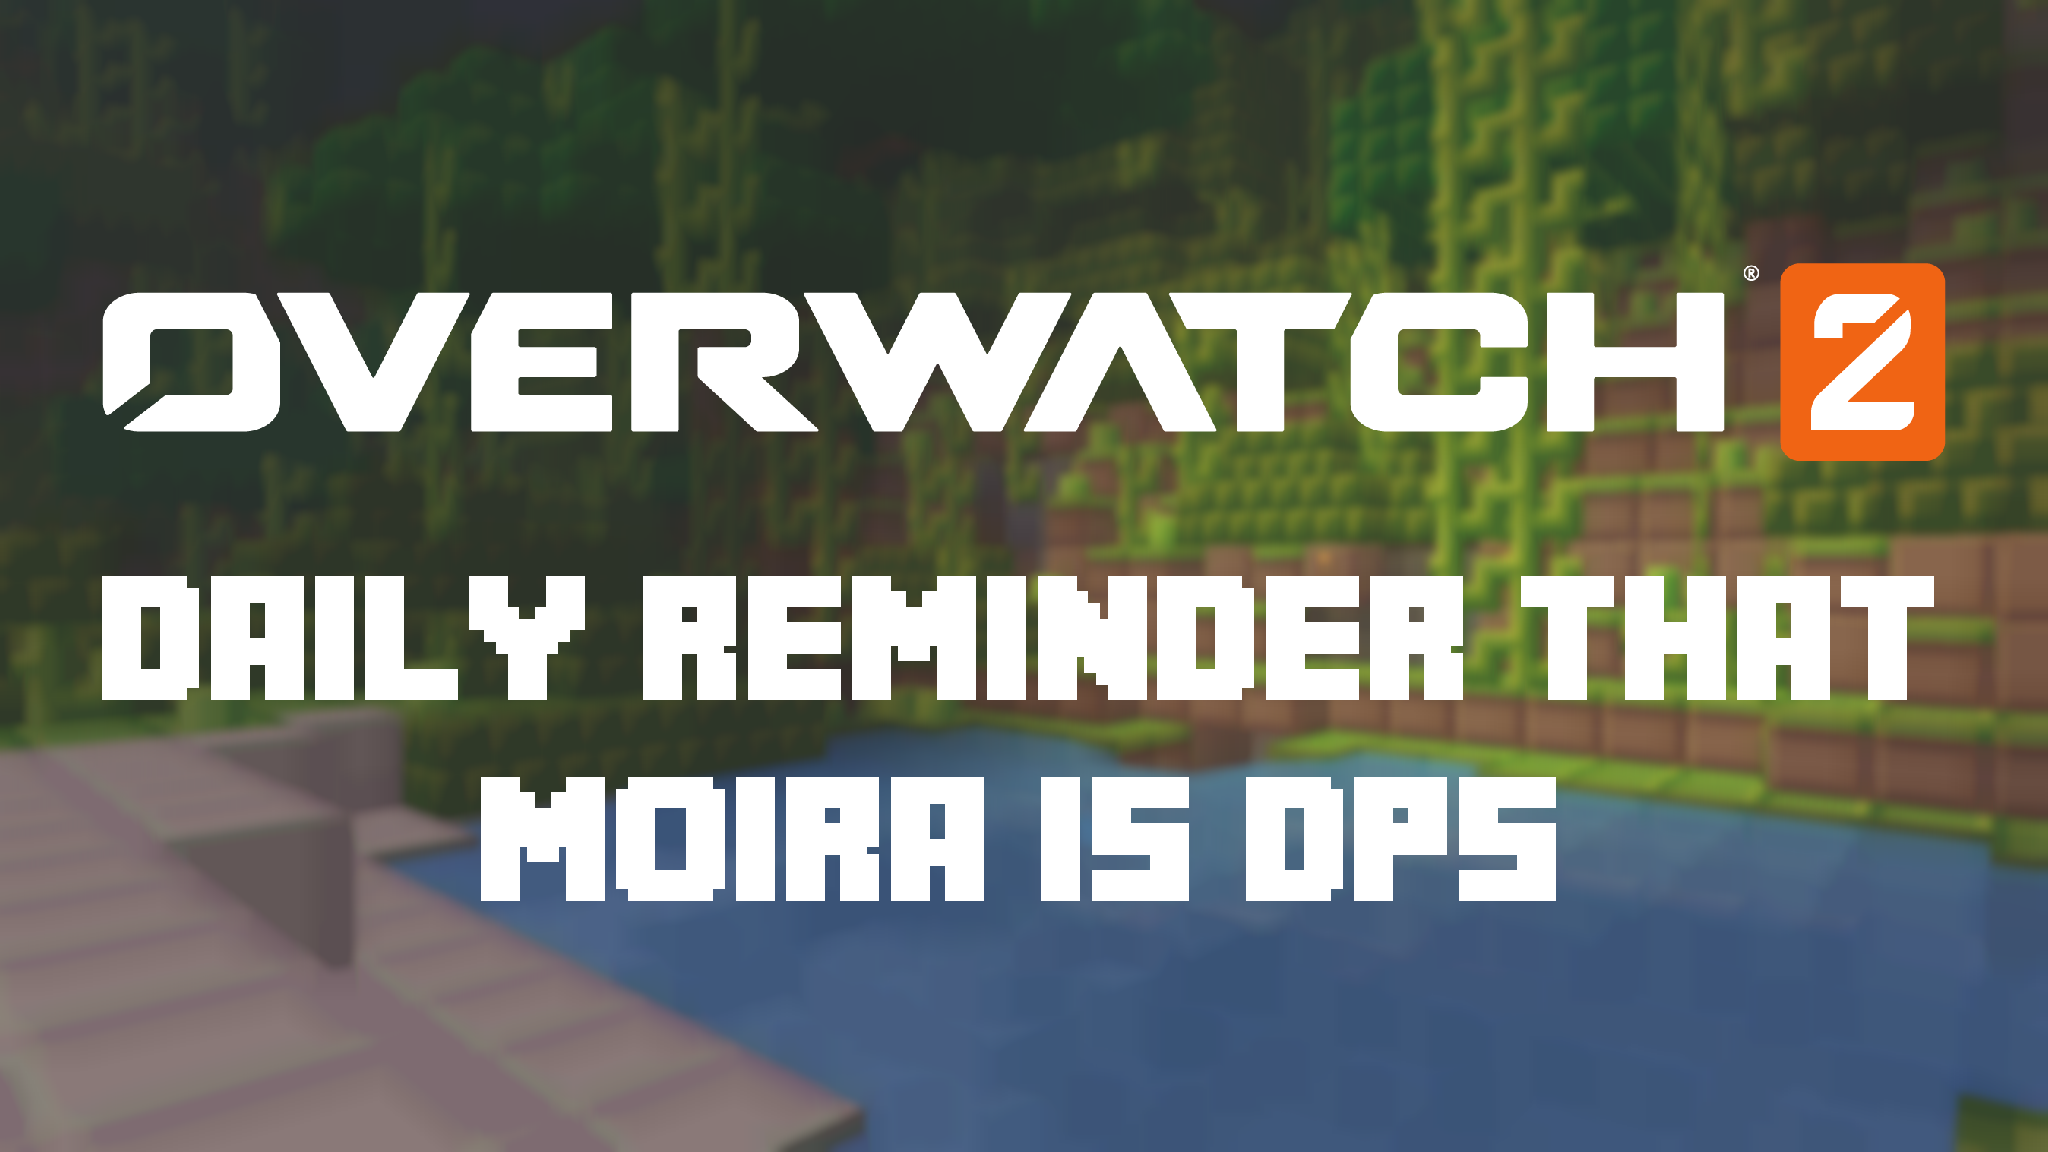
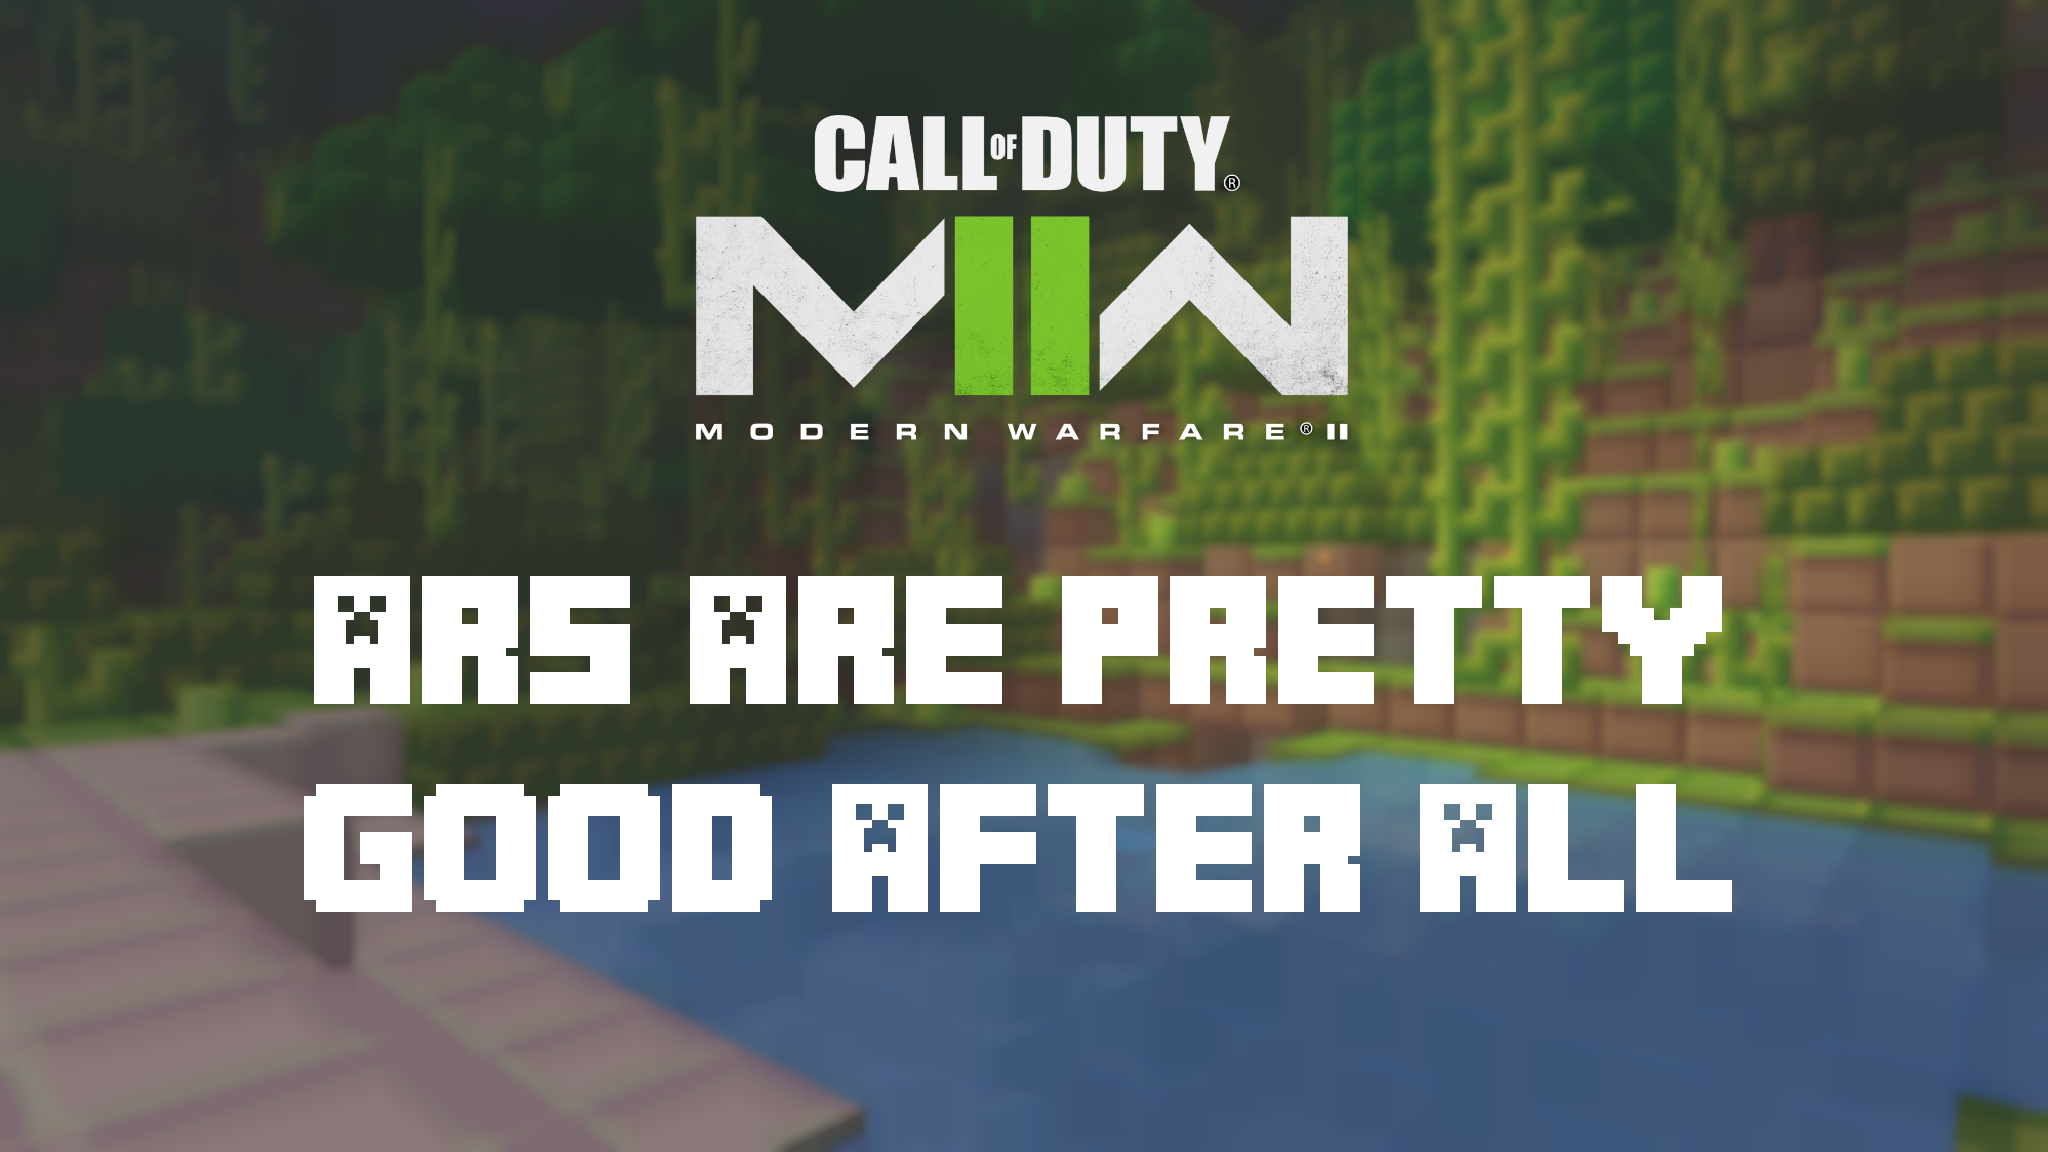
Added MW2 and refactored
Forgot to push this change when I last used the utility

Changed region(s): [[0.0312, 0.0938, 0.9688, 0.4062], [0.0312, 0.5, 0.9688, 0.625], [0.125, 0.6562, 0.8438, 0.8125]]

diff --git a/README.md b/README.md
@@ -31,6 +31,7 @@ This project uses [SkiaSharp](https://github.com/mono/SkiaSharp) for the graphic
   - With special credit to: "Asherz08", "MadPixel", "Ashley Denham" (from License.txt)
 - Overwatch logo: OW Logo White (cropped) from [Blizzard Press Center](https://blizzard.gamespress.com/Overwatch#?tab=logos)
 - Overwatch 2 logo: Overwatch2 Secondary DKBKGD (cropped) from [Blizzard Press Center](https://blizzard.gamespress.com/overwatch-2#?tab=logos-3)
+- Modern Warfare 2 logo: cod-mw2-logo from [Call of Duty MW2 Homepage](https://www.callofduty.com/modernwarfare2)
 
 ## Additional:
 
